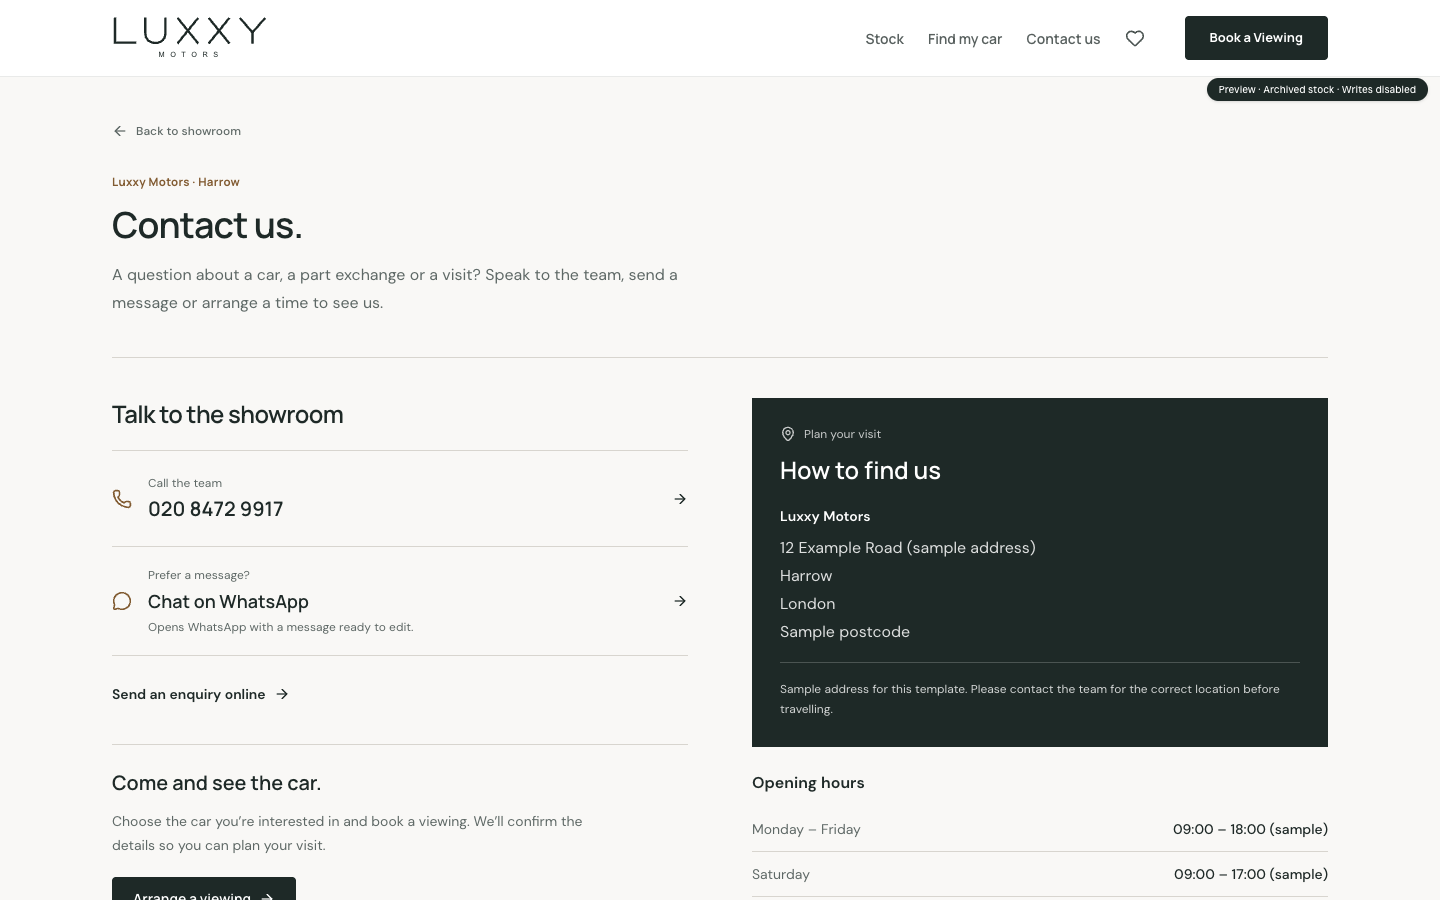
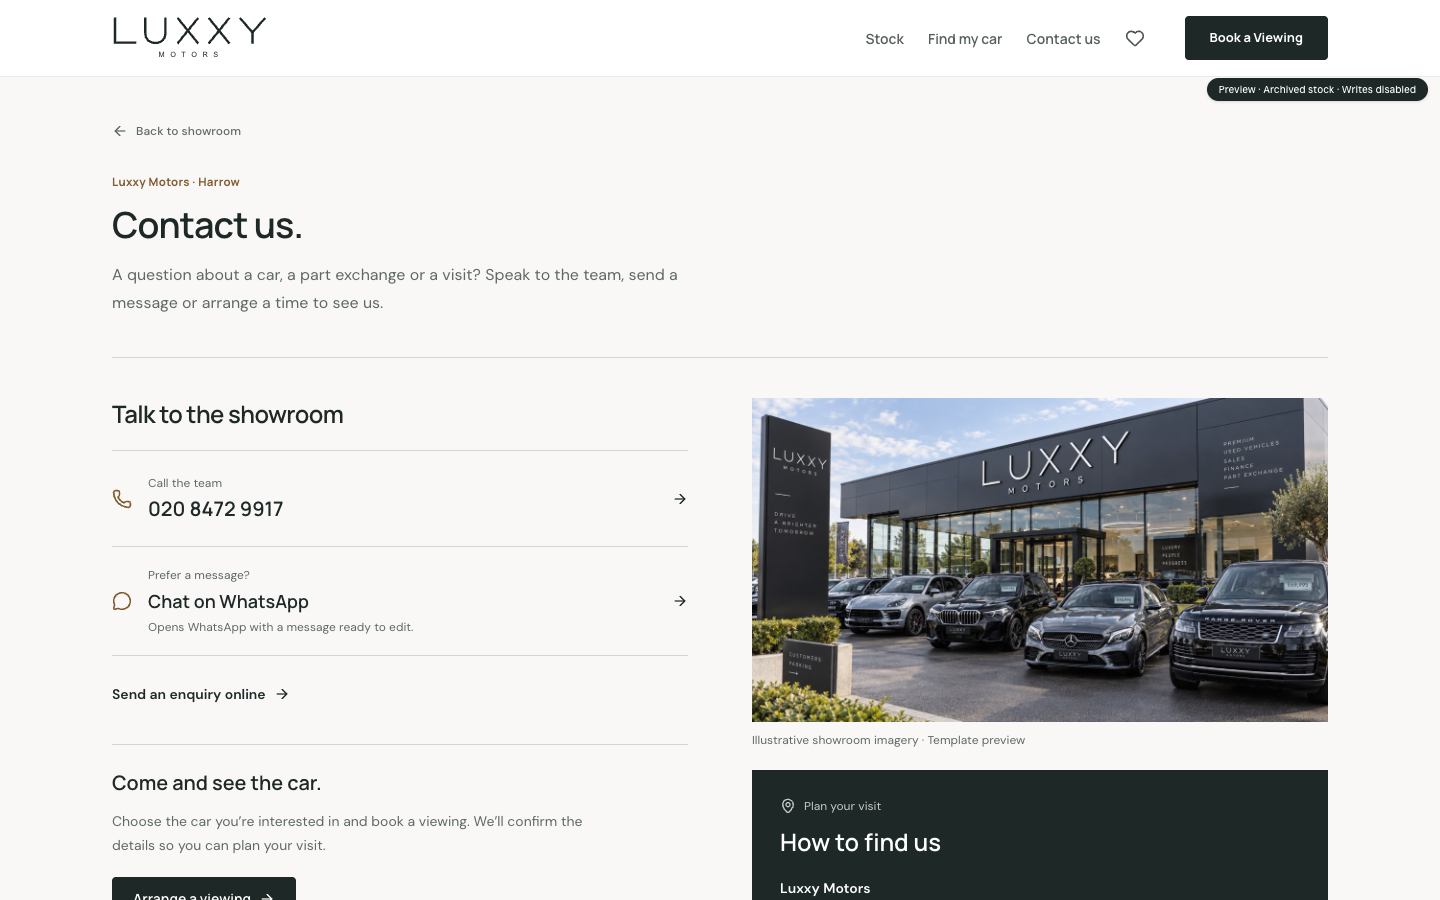
Place supplied dealership photos across home and contact pages

Changed region(s): [[0.5, 0.4356, 0.9375, 1.0]]

diff --git a/artifacts/luxxy-motors/tests/dealership-photography.spec.ts b/artifacts/luxxy-motors/tests/dealership-photography.spec.ts
@@ -1,0 +1,107 @@
+import { mkdir } from 'node:fs/promises';
+import { resolve } from 'node:path';
+import { expect, test, type Locator, type Page } from '@playwright/test';
+
+test.skip(process.env.LUXXY_LOCAL_PREVIEW !== '1', 'Local preview only.');
+
+const caption = 'Illustrative showroom imagery · Template preview';
+const bundledPhoto = 'img[src*="luxxy-showroom"], img[src*="luxxy-forecourt"], img[src*="luxxy-exterior"], img[src*="luxxy-reception"]';
+const screenshotDirectory = resolve('../../docs/screenshots/dealership-photography');
+
+async function expectLoaded(image: Locator) {
+  await expect(image).toBeVisible();
+  await image.scrollIntoViewIfNeeded();
+  await expect.poll(() => image.evaluate(element => {
+    const photo = element as HTMLImageElement;
+    return photo.complete && photo.naturalWidth > 0 && photo.naturalHeight > 0;
+  })).toBe(true);
+}
+
+async function expectNoOverflow(page: Page, width: number) {
+  expect(await page.evaluate(() => document.documentElement.scrollWidth)).toBeLessThanOrEqual(width);
+}
+
+for (const width of [390, 1440]) {
+  test(`supplied dealership photos load in their intended sections at ${width}px`, async ({ page }) => {
+    await page.setViewportSize({ width, height: 1000 });
+    await mkdir(screenshotDirectory, { recursive: true });
+    await page.goto('/');
+    const hero = page.getByTestId('showroom-hero-photo');
+    await expect(hero).toHaveAttribute('href', '/#stock');
+    await expect(hero.locator('img')).toHaveAttribute('src', /luxxy-hero/);
+    await expect(hero.locator('img')).toHaveAttribute('alt', /dark blue Mercedes-Benz overlooking a lake/);
+    await expectLoaded(hero.locator('img'));
+
+    const about = page.locator('#about');
+    const visit = page.locator('#visit');
+    await expectLoaded(about.locator('img[src*="luxxy-showroom"]'));
+    await expectLoaded(visit.locator('img[src*="luxxy-forecourt"]'));
+    await expect(about.getByText(caption, { exact: true })).toBeVisible();
+    await expect(visit.getByText(caption, { exact: true })).toBeVisible();
+    await expect(page.locator(bundledPhoto)).toHaveCount(2);
+    await expectNoOverflow(page, width);
+    await page.evaluate(() => document.fonts.ready);
+    await about.screenshot({ path: resolve(screenshotDirectory, `home-about-${width}.png`) });
+    await visit.screenshot({ path: resolve(screenshotDirectory, `home-visit-${width}.png`) });
+
+    await page.goto('/contact');
+    await expect(page.getByRole('heading', { name: 'Contact us.', exact: true })).toBeVisible();
+    await expectLoaded(page.getByTestId('contact-location').locator('img[src*="luxxy-exterior"]'));
+    await expectLoaded(page.locator('#contact-message img[src*="luxxy-reception"]'));
+    await expect(page.getByText(caption, { exact: true })).toHaveCount(2);
+    await expect(page.locator(bundledPhoto)).toHaveCount(2);
+    await expect(page.getByTestId('contact-address')).toContainText('sample address');
+    await expect(page.getByTestId('contact-directions')).toHaveCount(0);
+    await expectNoOverflow(page, width);
+    await page.evaluate(async () => { await document.fonts.ready; window.scrollTo({ top: 0, behavior: 'instant' }); });
+    await page.screenshot({ path: resolve(screenshotDirectory, `contact-${width}.png`), fullPage: true });
+    await page.screenshot({ path: resolve(screenshotDirectory, `contact-${width}-viewport.png`) });
+  });
+}
+
+test('configured showroom and team photographs take priority over template artwork', async ({ page, request }) => {
+  const settings = await (await request.get('/api/dealer-settings')).json();
+  settings.presentation = {
+    ...settings.presentation,
+    showroomImageUrl: '/test-dealer-showroom.svg',
+    showroomImageAlt: 'Our own showroom exterior',
+    teamImageUrl: '/test-dealer-team.svg',
+    teamImageAlt: 'Our own dealership team',
+  };
+  await page.route('**/api/dealer-settings', route => route.fulfill({ json: settings }));
+  await page.route('**/test-dealer-*.svg', route => route.fulfill({
+    contentType: 'image/svg+xml',
+    body: '<svg xmlns="http://www.w3.org/2000/svg" width="160" height="90"><rect width="160" height="90" fill="#263a35"/></svg>',
+  }));
+  await page.goto('/');
+  await expectLoaded(page.locator('#about').getByRole('img', { name: 'Our own showroom exterior', exact: true }));
+  await expectLoaded(page.locator('#visit').getByRole('img', { name: 'Our own dealership team', exact: true }));
+  await expect(page.locator(bundledPhoto)).toHaveCount(0);
+  await expect(page.getByText(caption, { exact: true })).toHaveCount(0);
+  await expect(page.getByTestId('showroom-hero-photo').locator('img')).toHaveAttribute('src', /luxxy-hero/);
+
+  await page.goto('/contact');
+  await expectLoaded(page.getByTestId('contact-location').getByRole('img', { name: 'Our own showroom exterior', exact: true }));
+  await expectLoaded(page.locator('#contact-message').getByRole('img', { name: 'Our own dealership team', exact: true }));
+  await expect(page.locator(bundledPhoto)).toHaveCount(0);
+  await expect(page.getByText(caption, { exact: true })).toHaveCount(0);
+});
+
+test('another dealership receives no bundled Luxxy imagery', async ({ page, request }) => {
+  const settings = await (await request.get('/api/dealer-settings')).json();
+  settings.identity = { ...settings.identity, name: 'Harrow Independent Motors', logoText: 'HARROW INDEPENDENT MOTORS' };
+  settings.presentation = { ...settings.presentation, showroomImageUrl: '', teamImageUrl: '' };
+  await page.route('**/api/dealer-settings', route => route.fulfill({ json: settings }));
+  await page.goto('/');
+  await expect(page.getByTestId('showroom-hero-photo')).toHaveAttribute('href', /^\/vehicle\//);
+  await expect(page.getByTestId('showroom-hero-photo').locator('img')).not.toHaveAttribute('src', /luxxy-hero/);
+  await expect(page.locator(bundledPhoto)).toHaveCount(0);
+  await expect(page.getByText(caption, { exact: true })).toHaveCount(0);
+
+  await page.goto('/contact');
+  await expect(page.getByRole('heading', { name: 'Contact us.', exact: true })).toBeVisible();
+  await expect(page.getByTestId('contact-location')).toContainText('Harrow Independent Motors');
+  await expect(page.locator(bundledPhoto)).toHaveCount(0);
+  await expect(page.getByText(caption, { exact: true })).toHaveCount(0);
+  await expect(page.locator('img[src*="luxxy-hero"]')).toHaveCount(0);
+});

diff --git a/artifacts/luxxy-motors/src/pages/contact.tsx b/artifacts/luxxy-motors/src/pages/contact.tsx
@@ -3,7 +3,8 @@ import { Link } from 'wouter';
 import { ArrowLeft, ArrowRight, Check, Copy, Mail, MapPin, MessageCircle, Phone } from 'lucide-react';
 import { Button } from '@/components/ui/button';
 import { EnquiryForm } from '@/components/enquiry-form';
-import { ShowroomPhoto } from '@/components/showroom-photo';
+import { DealershipPhotograph } from '@/components/dealership-photograph';
+import { dealershipPhotography } from '@/lib/dealership-photography';
 import { useDealerSettings } from '@/lib/dealer-settings-context';
 import { useStock } from '@/lib/stock-context';
 import { usePageMeta } from '@/hooks/use-page-meta';
@@ -19,6 +20,7 @@ export default function Contact() {
   const phoneHref = getPhoneHref(settings);
   const whatsAppHref = getWhatsAppHref(`Hello ${settings.identity.name}, I’d like to ask about a car or arrange a visit.`, settings);
   const content = settings.presentation;
+  const photos = dealershipPhotography(settings);
   const email = settings.contact.email?.trim();
   usePageMeta({
     title: `Contact us & directions | ${settings.identity.name}`,
@@ -62,6 +64,7 @@ export default function Contact() {
         </section>
 
         <section aria-labelledby="find-us-heading" className="min-w-0" data-testid="contact-location">
+          {photos.contact && !isLoading && !isError && <DealershipPhotograph photo={photos.contact} className="mb-5" />}
           <div className="bg-primary px-5 py-6 text-primary-foreground sm:p-7">
             <p className="flex items-center gap-2 text-xs text-primary-foreground/75"><MapPin className="h-4 w-4" aria-hidden="true" />Plan your visit</p>
             <h2 id="find-us-heading" tabIndex={-1} className="mt-3 scroll-mt-28 font-display text-2xl font-semibold outline-none">How to find us</h2>
@@ -84,10 +87,9 @@ export default function Contact() {
         <div><h2 className="font-display text-xl font-semibold">Before you set off</h2><p className="mt-3 whitespace-pre-line text-sm leading-7 text-muted-foreground">{content?.visitInstructions || 'Contact us to confirm the car is available and arrange a viewing time. We’ll help with any questions before you travel.'}</p></div>
         <div><h2 className="font-display text-xl font-semibold">Parking & arrival</h2><p className="mt-3 whitespace-pre-line text-sm leading-7 text-muted-foreground">{content?.parkingInstructions || 'Ask the team about parking, the entrance and any access requirements when arranging your visit.'}</p></div>
       </section>}
-      {content?.showroomImageUrl && !isError && <ShowroomPhoto src={content.showroomImageUrl} alt={content.showroomImageAlt || 'The dealership'} className="mt-8 aspect-[16/7] max-h-96" />}
 
       <section id="contact-message" aria-labelledby="contact-message-heading" className="mt-10 grid scroll-mt-28 items-start gap-7 lg:grid-cols-[minmax(0,1fr)_minmax(0,1.3fr)] lg:gap-16">
-        <div><p className="luxxy-kicker">Send a message</p><h2 id="contact-message-heading" tabIndex={-1} className="mt-3 font-display text-2xl font-semibold tracking-tight outline-none">What would you like to know?</h2><p className="mt-4 max-w-md text-sm leading-7 text-muted-foreground">Tell us which car you’re considering, ask about a part exchange, or leave a question for the team.</p><p className="mt-4 text-xs leading-6 text-muted-foreground">Your message goes to the dealership enquiry inbox. We’ll show a reference when it has been received.</p></div>
+        <div><p className="luxxy-kicker">Send a message</p><h2 id="contact-message-heading" tabIndex={-1} className="mt-3 font-display text-2xl font-semibold tracking-tight outline-none">What would you like to know?</h2><p className="mt-4 max-w-md text-sm leading-7 text-muted-foreground">Tell us which car you’re considering, ask about a part exchange, or leave a question for the team.</p><p className="mt-4 text-xs leading-6 text-muted-foreground">Your message goes to the dealership enquiry inbox. We’ll show a reference when it has been received.</p>{photos.reception && !isLoading && !isError && <DealershipPhotograph photo={photos.reception} className="mt-6" />}</div>
         <div className="min-w-0 border border-border bg-card p-4 sm:p-6"><EnquiryForm initialType="general" stockCars={stock?.cars ?? []} /></div>
       </section>
     </div>

diff --git a/artifacts/luxxy-motors/src/lib/dealership-photography.ts b/artifacts/luxxy-motors/src/lib/dealership-photography.ts
@@ -1,0 +1,37 @@
+import type { DealerConfig } from '@/config/dealer';
+import reception from '@/assets/dealership/luxxy-reception.jpg';
+import exterior from '@/assets/dealership/luxxy-exterior.jpg';
+import forecourt from '@/assets/dealership/luxxy-forecourt.jpg';
+import showroom from '@/assets/dealership/luxxy-showroom.jpg';
+
+export interface DealershipPhoto {
+  src: string;
+  alt: string;
+  caption?: string;
+}
+
+const illustrative = (src: string, description: string): DealershipPhoto => ({
+  src,
+  alt: `Illustrative Luxxy Motors showroom: ${description}`,
+  caption: 'Illustrative showroom imagery · Template preview',
+});
+
+/** Supplied template artwork must never replace a dealer's configured photography. */
+export function dealershipPhotography(settings: DealerConfig) {
+  const content = settings.presentation;
+  const useTemplatePhotos = /^luxxy\s+motors$/i.test(settings.identity.name.trim())
+    && !content?.showroomImageUrl && !content?.teamImageUrl;
+  const configuredShowroom: DealershipPhoto | undefined = content?.showroomImageUrl
+    ? { src: content.showroomImageUrl, alt: content.showroomImageAlt || `${settings.identity.name} showroom` }
+    : undefined;
+  const configuredTeam: DealershipPhoto | undefined = content?.teamImageUrl
+    ? { src: content.teamImageUrl, alt: content.teamImageAlt || `The ${settings.identity.name} team` }
+    : undefined;
+
+  return {
+    introduction: configuredShowroom ?? (useTemplatePhotos ? illustrative(showroom, 'vehicles displayed inside a bright showroom') : undefined),
+    visit: useTemplatePhotos ? illustrative(forecourt, 'cars on the forecourt in front of the dealership') : undefined,
+    contact: configuredShowroom ?? (useTemplatePhotos ? illustrative(exterior, 'dealership frontage, entrance and forecourt') : undefined),
+    reception: configuredTeam ?? (useTemplatePhotos ? illustrative(reception, 'a customer speaking with a receptionist') : undefined),
+  };
+}

diff --git a/artifacts/luxxy-motors/src/pages/home.tsx b/artifacts/luxxy-motors/src/pages/home.tsx
@@ -1,5 +1,7 @@
 import { DealershipVisit } from "@/components/dealership-visit";
 import { ShowroomPhoto } from "@/components/showroom-photo";
+import { DealershipPhotograph } from '@/components/dealership-photograph';
+import { dealershipPhotography } from '@/lib/dealership-photography';
 import luxxyHeroImage from "@/assets/luxxy-hero.jpg";
 import {
   readBrowseSession,
@@ -227,10 +229,8 @@ export default function Home() {
       : vehicleDisplayTitle(featuredCar);
 
   const heroPhotoSource = heroImage || getThumbnailUrl(featuredCar);
-  const introductionImage = dealerConfig.presentation?.showroomImageUrl || heroPhotoSource;
-  const introductionAlt = dealerConfig.presentation?.showroomImageUrl
-    ? dealerConfig.presentation.showroomImageAlt || `${dealerConfig.identity.name} showroom`
-    : heroAlt;
+  const introductionPhoto = dealershipPhotography(dealerConfig).introduction;
+  const introductionImage = introductionPhoto?.src || heroPhotoSource;
 
   const dealershipPoints = dealerConfig.whyBuy?.length ? (
     <ul className="divide-y divide-border border-y border-border">
@@ -575,10 +575,12 @@ export default function Home() {
                 {" to see the car and talk through the details."}
               </p>
             </div>
-            {introductionImage && (
+            {introductionPhoto ? (
+              <DealershipPhotograph photo={introductionPhoto} className="lg:col-start-1 lg:row-start-1 lg:row-span-2 lg:self-center" />
+            ) : introductionImage && (
               <ShowroomPhoto
                 src={introductionImage}
-                alt={introductionAlt}
+                alt={heroAlt}
                 fit="contain"
                 className="aspect-[3/2] lg:col-start-1 lg:row-start-1 lg:row-span-2 lg:self-center"
               />

diff --git a/artifacts/luxxy-motors/src/components/dealership-visit.tsx b/artifacts/luxxy-motors/src/components/dealership-visit.tsx
@@ -4,10 +4,13 @@ import { useDealerSettings } from "@/lib/dealer-settings-context";
 import { formatPhoneDisplay } from "@/lib/utils";
 import { Button } from "./ui/button";
 import { ShowroomPhoto } from "./showroom-photo";
+import { DealershipPhotograph } from './dealership-photograph';
+import { dealershipPhotography } from '@/lib/dealership-photography';
 
 export function DealershipVisit() {
   const { settings } = useDealerSettings();
   const { address, contact, hours, presentation: content = {} } = settings;
+  const visitPhoto = dealershipPhotography(settings).visit;
   const hasStory = Boolean(
     content.teamImageUrl ||
     content.teamIntroduction ||
@@ -27,7 +30,7 @@ export function DealershipVisit() {
     >
       <div className="container mx-auto px-4 sm:px-6 lg:px-8">
         <div
-          className={`grid items-start gap-6 lg:gap-10 ${content.teamImageUrl ? "lg:grid-cols-2" : "max-w-4xl"}`}
+          className={`grid items-start gap-6 lg:gap-10 ${content.teamImageUrl || visitPhoto ? "lg:grid-cols-2" : "max-w-4xl"}`}
         >
           <div>
             <h2 id="visit-heading" className="section-heading">
@@ -104,8 +107,9 @@ export function DealershipVisit() {
               )}
             </div>
           </div>
-          {hasStory && (
-            <div className={content.teamImageUrl ? "space-y-6" : "grid gap-6 sm:grid-cols-2"}>
+          {(hasStory || visitPhoto) && (
+            <div className={content.teamImageUrl || visitPhoto ? "space-y-6" : "grid gap-6 sm:grid-cols-2"}>
+              {visitPhoto && <DealershipPhotograph photo={visitPhoto} />}
               {(content.teamIntroduction || content.teamImageUrl) && (
                 <div className="border-t border-border pt-5">
                   {content.teamImageUrl && (

diff --git a/artifacts/luxxy-motors/src/pages/home.test.tsx b/artifacts/luxxy-motors/src/pages/home.test.tsx
@@ -268,8 +268,8 @@ describe('showroom search filters', () => {
     expect(hero).not.toHaveTextContent('£');
     expect(within(hero).getByRole('img')).toHaveAttribute('alt', expect.stringContaining('Illustrative Luxxy brand image'));
     const introduction = screen.getByRole('region', { name: 'Come and see for yourself.' });
-    expect(within(introduction).getByRole('img')).toHaveAttribute('src', within(hero).getByRole('img').getAttribute('src'));
-    expect(within(introduction).getByRole('img')).toHaveAttribute('alt', expect.stringContaining('Illustrative Luxxy brand image'));
+    expect(within(introduction).getByRole('img')).toHaveAttribute('src', expect.stringContaining('luxxy-showroom.jpg'));
+    expect(within(introduction).getByRole('img')).toHaveAttribute('alt', expect.stringContaining('Illustrative Luxxy Motors showroom'));
   });
 
   it('keeps other dealerships on their own photographed stock', () => {

diff --git a/artifacts/luxxy-motors/src/components/dealership-photograph.tsx b/artifacts/luxxy-motors/src/components/dealership-photograph.tsx
@@ -1,0 +1,15 @@
+import { ShowroomPhoto } from '@/components/showroom-photo';
+import type { DealershipPhoto } from '@/lib/dealership-photography';
+
+export function DealershipPhotograph({ photo, className, priority = false }: {
+  photo: DealershipPhoto;
+  className?: string;
+  priority?: boolean;
+}) {
+  return (
+    <figure className={className}>
+      <ShowroomPhoto src={photo.src} alt={photo.alt} priority={priority} className="aspect-[16/9]" />
+      {photo.caption && <figcaption className="mt-2 text-xs leading-5 text-muted-foreground">{photo.caption}</figcaption>}
+    </figure>
+  );
+}

diff --git a/docs/ui-redesign.md b/docs/ui-redesign.md
@@ -424,3 +424,11 @@ All dealership information comes from existing onboarding settings. Sample addre
 Validation: **172 frontend tests passed across 27 files**. **29 browser checks passed**, covering the five new contact scenarios and 24 existing mobile/navigation checks; the five contact scenarios passed again after the final mobile shortcut was added. Contact checks cover 320px, 390px and 1440px layouts, sample-address handling, configured directions/email/parking, address copying, navigation and mocked enquiry submission. Full workspace typechecking and builds passed; the existing Vite large-chunk advisory remains. Visually inspected desktop/mobile screenshots and checked the enquiry focus shortcut in the local browser. Fresh screenshots are in `docs/screenshots/contact-page/`.
 
 Submissions were intercepted in tests; no real enquiries or WhatsApp messages were sent. Backend, database, API contracts, authentication, sales rules and production were unchanged. Real location/hours and optional email still need to be supplied through onboarding before publishing this template.
+
+## Supplied dealership imagery — 23 September 2026
+
+Placed all four user-supplied dealership visuals: showroom interior in the homepage introduction, forecourt beside Plan your visit, exterior beside Contact / How to find us, and reception alongside the message introduction. The current Mercedes hero and stock photographs remain unchanged. A shared `DealershipPhotograph` component preserves wide compositions at desktop and mobile widths, provides descriptive alternative text, lazy loading and consistent captions, and retains the existing unavailable-image state.
+
+The images are clearly labelled illustrative template imagery. They appear only for Luxxy Motors without configured showroom/team photos; existing onboarding photos take priority and other dealerships retain their own imagery. No new API fields, backend changes, database writes or production changes. Assets are approximately 1MB combined instead of the approximately 9MB originals; source provenance is documented in `src/assets/README.md`.
+
+Validation: **172 frontend tests and 33 browser checks passed**, including all four image loads/placements at 390px and 1440px, preserved hero, configured-photo priority, other-dealership isolation, contact form submissions with intercepted requests, mobile navigation and existing stock layouts. Full workspace typechecking/build passed, with the existing Vite large-chunk advisory. Reviewed the homepage introduction, visit section and Contact page visually; fresh section and page screenshots are under `docs/screenshots/dealership-photography/`, with Contact page screenshots also refreshed.

diff --git a/artifacts/luxxy-motors/src/assets/README.md b/artifacts/luxxy-motors/src/assets/README.md
@@ -5,3 +5,18 @@
 The original composition was retained and encoded as a 1536×1024 JPEG at quality 85 (approximately 450KB). The source file was not modified. Responsive CSS frames the image while retaining the complete vehicle.
 
 This is illustrative brand artwork, not an inventory photograph. It links to stock without a vehicle price. It is used only for the Luxxy Motors identity when no custom homepage photo or featured vehicle is selected. Custom photos and featured selections retain their existing onboarding controls; other dealership identities continue to use their own stock imagery.
+
+## Dealership photography supplied on 23 September 2026
+
+The four images in `dealership/` were supplied by the user for placement throughout this template:
+
+| Asset | Supplied image | Placement |
+| --- | --- | --- |
+| `luxxy-reception.jpg` | `codex-clipboard-591cf2e2-95f9-43cc-aba6-b16ba5a52335.png` | Contact page message introduction |
+| `luxxy-exterior.jpg` | `codex-clipboard-feea4f54-768d-4034-b422-217ee0930861.png` | Contact page location section |
+| `luxxy-forecourt.jpg` | `codex-clipboard-2a250158-7133-4c9e-9f70-27b6e4bf8d73.png` | Homepage visit section |
+| `luxxy-showroom.jpg` | `codex-clipboard-5dec5f29-6506-4559-b094-20e7af424114.png` | Homepage dealership introduction |
+
+The full compositions were retained, resized to 1200px wide and encoded as JPEG at quality 80 (about 1MB combined, down from about 9MB). Original supplied files were not modified. These images are illustrative template content, with visible captions and descriptive alternative text; they do not represent confirmed stock, staff, parking arrangements or the actual address.
+
+`dealershipPhotography` uses these defaults only for Luxxy Motors when no showroom or team photograph has been configured. Existing onboarding showroom/team photos take priority and suppress the bundled sample set. Other dealership identities never receive these assets. The existing homepage car hero is unchanged.
